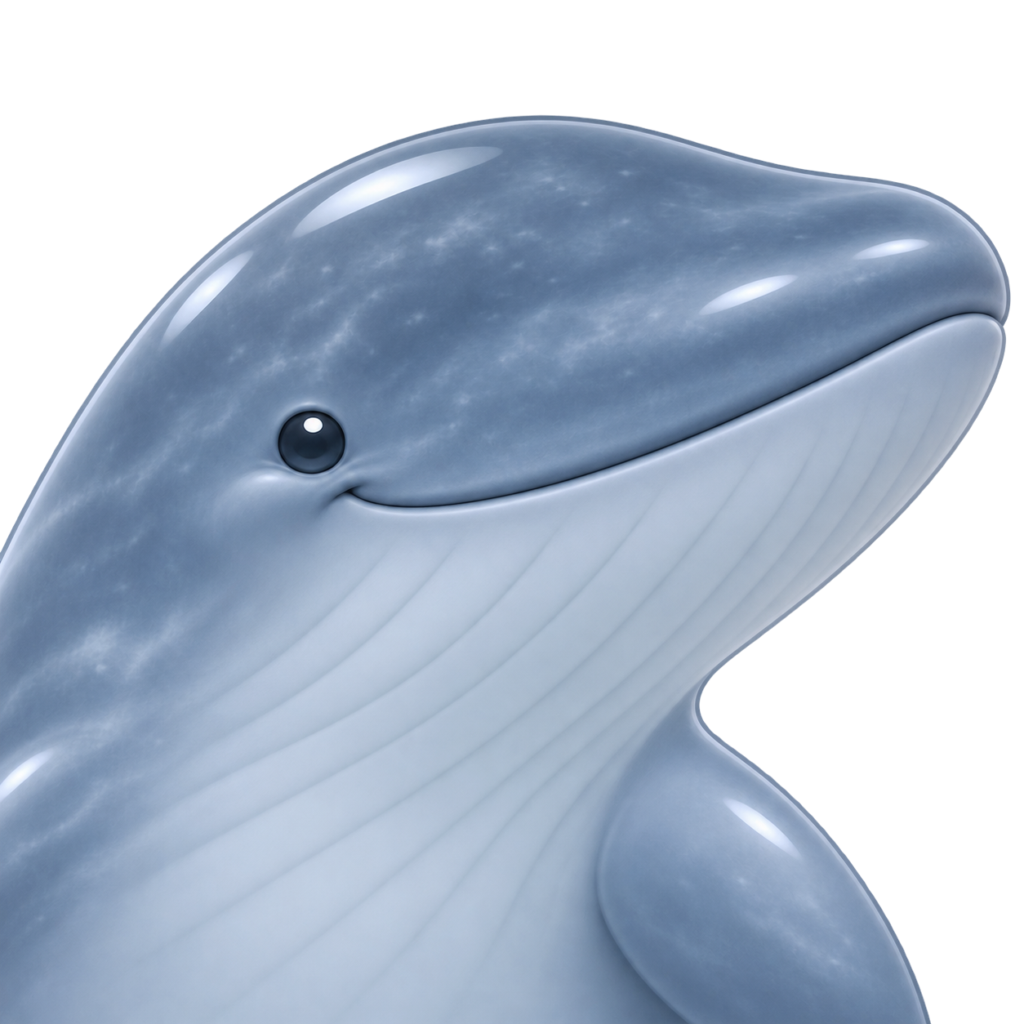
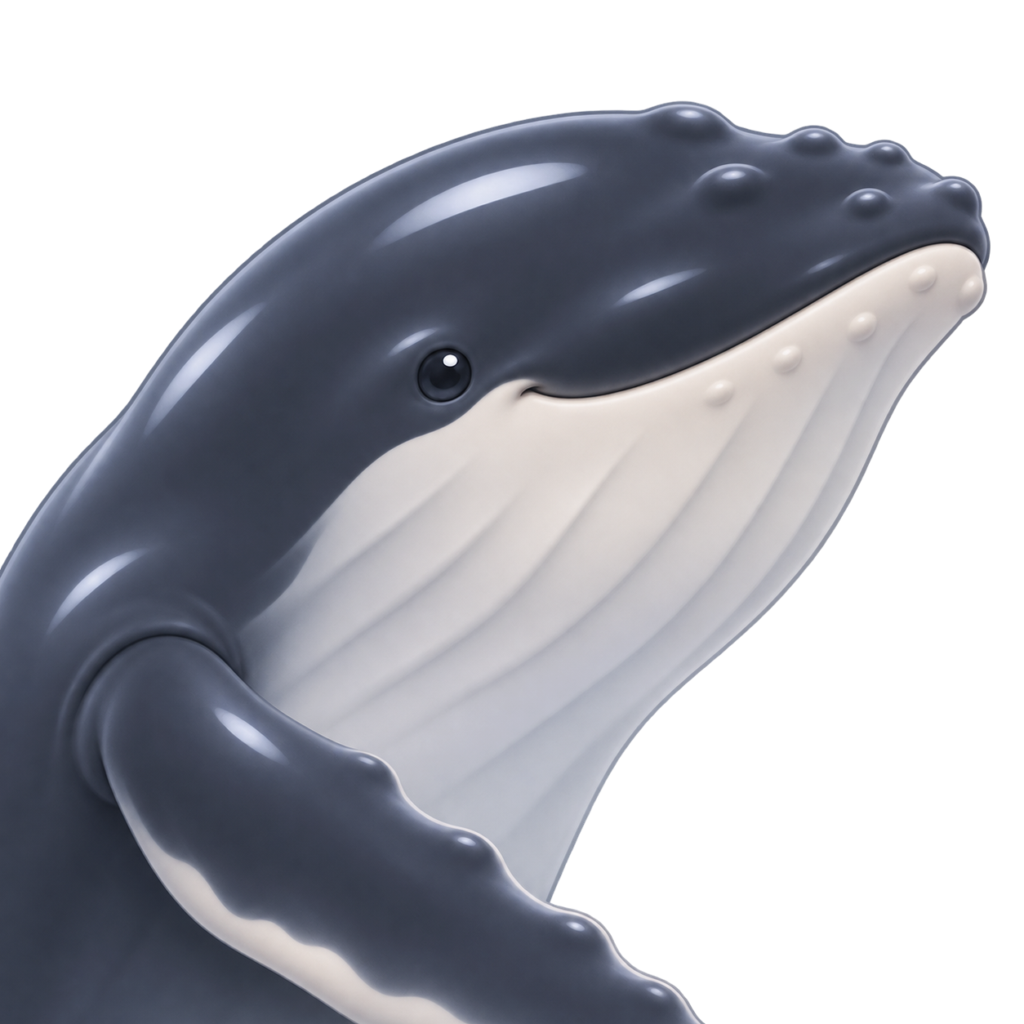
feat: redraw H1 mascot as a humpback whale

diff --git a/scripts/build_assets.py b/scripts/build_assets.py
@@ -8,7 +8,7 @@ from PIL import Image
 ROOT = Path(__file__).resolve().parents[1]
 NAMES = {
     "A1": "Orca", "B1": "Dolphin", "D1": "Beluga", "E1": "Sea Otter",
-    "F1": "Manta Ray", "G1": "Octopus", "H1": "Blue Whale", "H2": "Seal",
+    "F1": "Manta Ray", "G1": "Octopus", "H1": "Humpback", "H2": "Seal",
     "I1": "Sea Turtle", "J1": "Crab", "K2": "Pufferfish", "L2": "Seahorse",
     "M1": "Jellyfish", "N1": "Shark", "O1": "Clownfish", "P3": "Walrus",
     "Q1": "Hammerhead", "R3": "Narwhal", "S2": "Penguin", "T1": "Sea Bunny",
